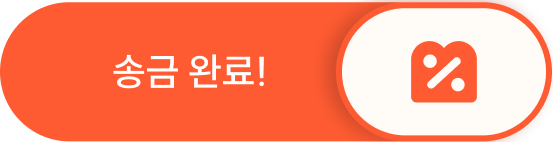
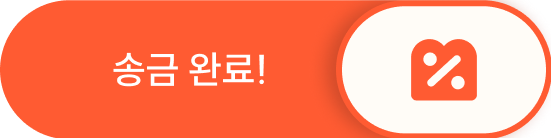
Fix on-state swipe button size to match the off state exactly
The previous crop kept a couple px of transparent padding around the
pill, which made the stretched overlay a few percent smaller than the
baked-in off button. Re-crop tight to the opaque pixels and size the
overlay box using the same measured off-button dimensions.

diff --git a/style.css b/style.css
@@ -1020,10 +1020,10 @@ img { max-width: 100%; display: block; }
    image for free via the shared .reminder-swipe-wrap transform/opacity. */
 .reminder-swipe-on {
   position: absolute;
-  left: 22.6%;
-  top: 79.7%;
-  width: 53.7%;
-  height: 6.58%;
+  left: 22.07%;
+  top: 79.59%;
+  width: 54.82%;
+  height: 6.85%;
   z-index: 2;
   opacity: 0;
   transition: opacity 0.5s ease;
